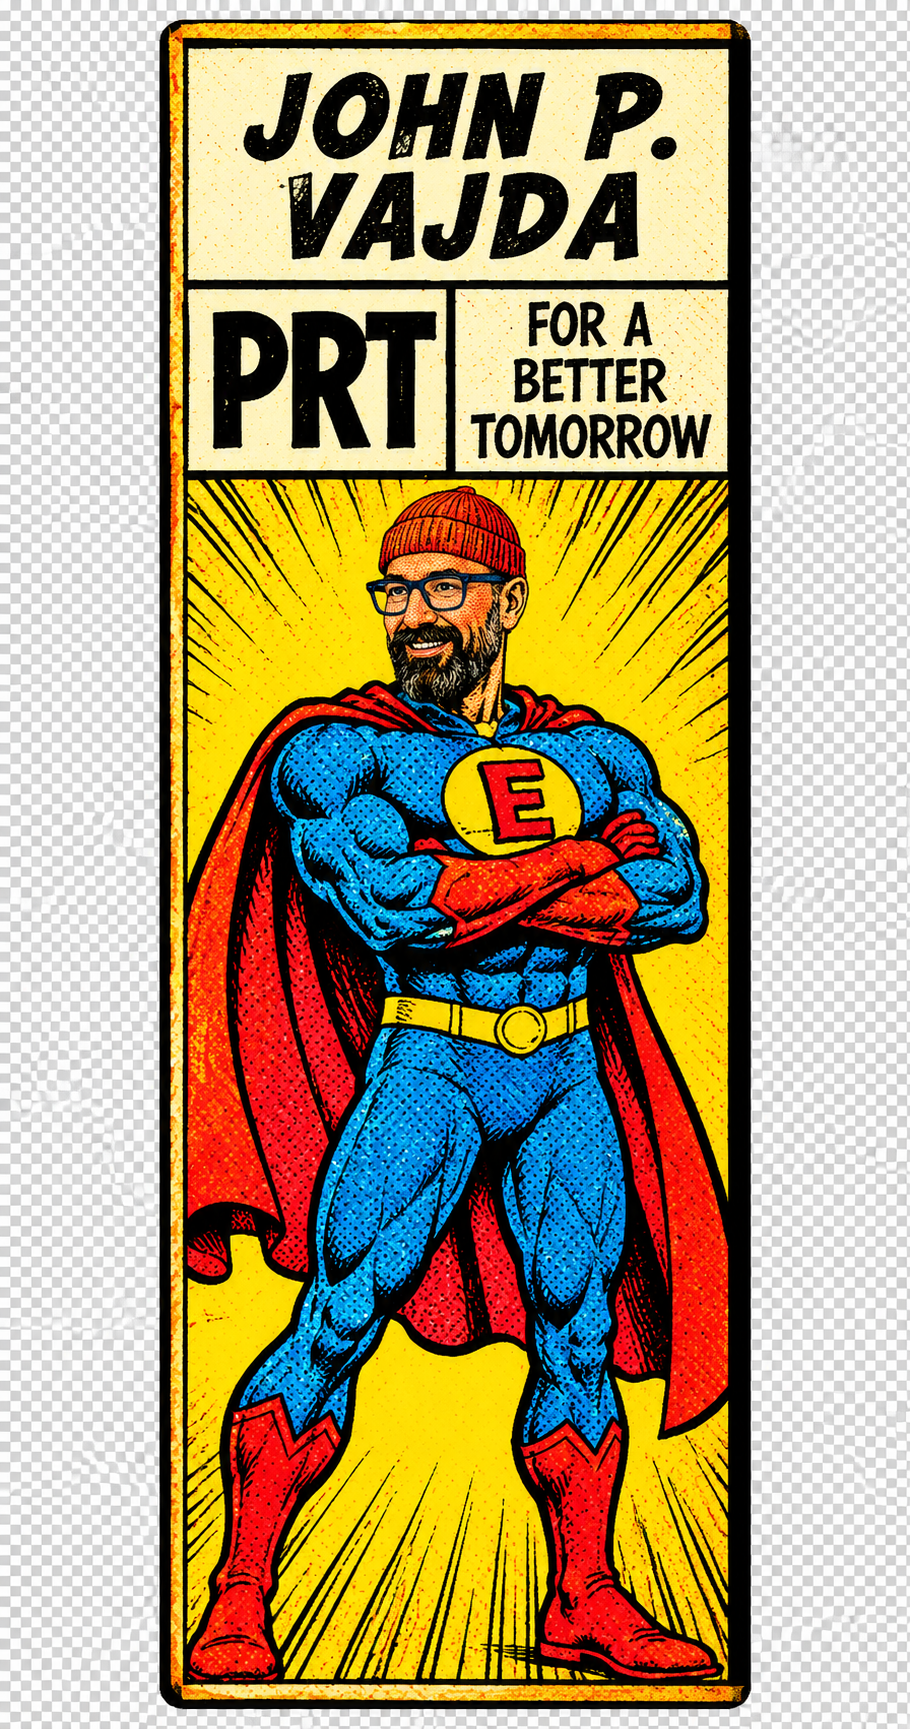
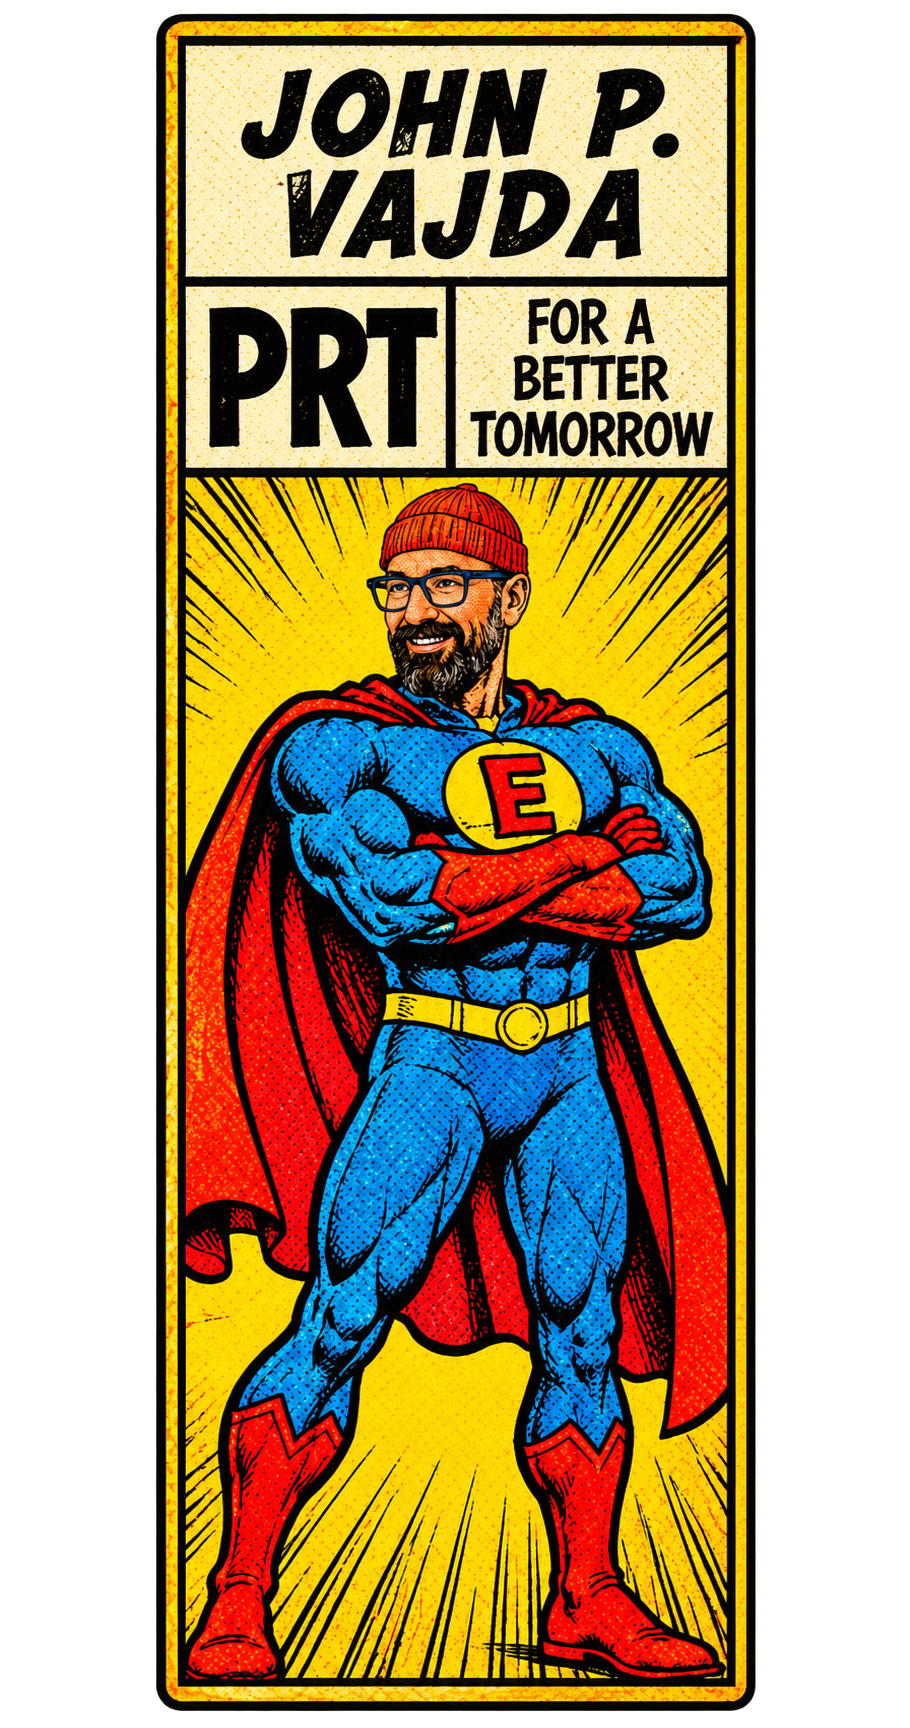
mobile fix

diff --git a/style.css b/style.css
@@ -191,12 +191,7 @@ main {
   display: block;
   height: 17.5rem;
   width: auto;
-  aspect-ratio: 591 / 1689;
-  /* trim the transparent margin baked into the PNG */
-  object-view-box: inset(1.2% 17.5% 1.2% 17.6%);
-  object-fit: contain;
-  border-radius: 4px;
-  box-shadow: 4px 4px 0 var(--ink);
+  filter: drop-shadow(4px 4px 0 var(--ink));
 }
 
 .code-stamp {
@@ -634,20 +629,22 @@ figcaption {
   }
 
   .hero {
+    /* corner images scale with the screen width */
+    --corner-h: clamp(6rem, 34vw, 10.5rem);
     min-height: 0;
-    padding: 11.5rem 0.9rem 2rem;
+    padding: calc(var(--corner-h) + 1.4rem) 0.9rem 2rem;
   }
 
   .hero-poster {
     top: 0.45rem;
     left: 0.45rem;
-    height: 10.4rem;
+    height: var(--corner-h);
   }
 
   .code-stamp {
     top: 0.45rem;
     right: 0.45rem;
-    width: 5rem;
+    width: calc(var(--corner-h) * 0.5);
   }
 
   h1 {

diff --git a/components/hero.js b/components/hero.js
@@ -2,7 +2,7 @@ export function Hero() {
   return `
 <section class="hero" aria-labelledby="site-title">
   <div class="hero-burst" aria-hidden="true"></div>
-  <img class="hero-poster" src="design/comic_corner_box.png" alt="Comic-style poster of John P. Vajda, PRT: For a better tomorrow" width="591" height="1689">
+  <img class="hero-poster" src="design/comic_corner_box.png" alt="Comic-style poster of John P. Vajda, PRT: For a better tomorrow" width="910" height="1728">
   <img class="code-stamp" src="design/prt_coach_stamp.png" alt="Certified PRT Coach" width="405" height="615">
   <div class="hero-copy">
     <h1 id="site-title">Excelsior</h1>
